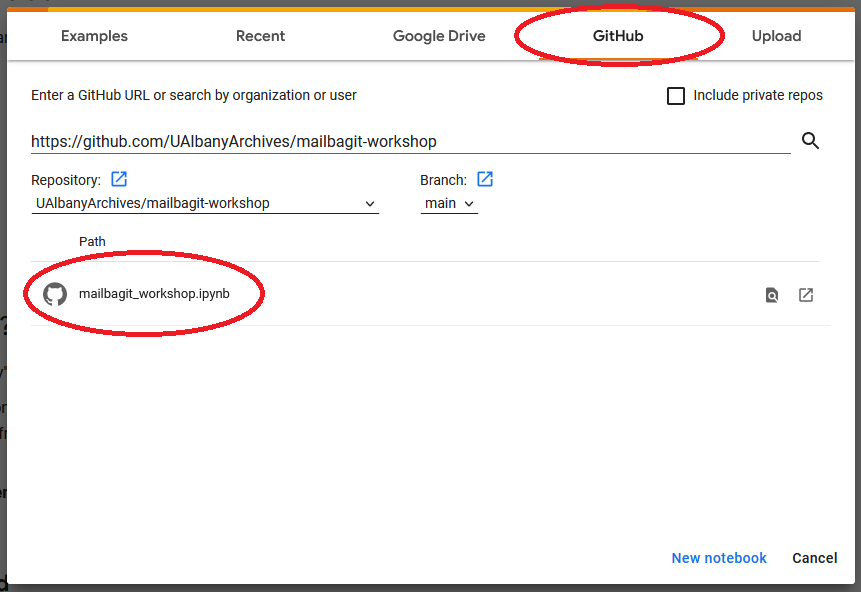
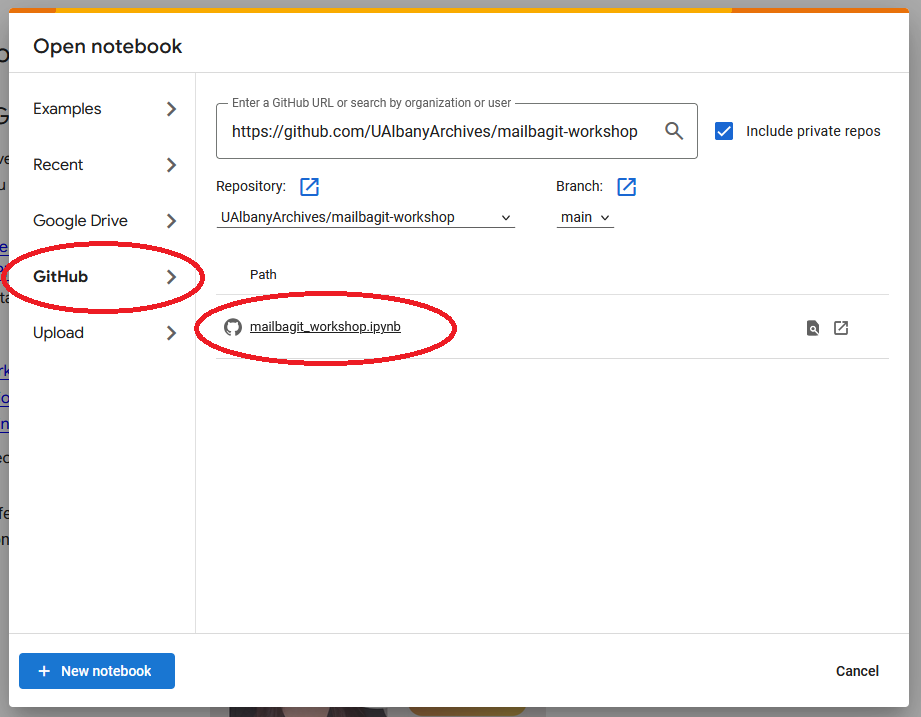
updated docs

Changed region(s): [[0.0, 0.0, 1.0, 1.0]]

diff --git a/docs/trying.md b/docs/trying.md
@@ -9,9 +9,11 @@ nav_order: 2
 
 You can try out mailbagit step-by-step using a Jupyter Notebook in Google Colab.
 
+![Screenshot of selecting mailbagit_workshop.ipynb in Google Colab]({{ site.baseurl }}/img/mailbag-colab-notebook.png)
+
 1. Go to [colab.research.google.com](https://colab.research.google.com)
 2. Load from Github tab
 3. Enter the Github URL: https://github.com/UAlbanyArchives/mailbagit-workshop
 4. Select the "mailbagit_workshop.ipynb" notebook
 
-![Screenshot of selecting mailbagit_workshop.ipynb in Google Colab]({{ site.baseurl }}/img/mailbag-colab-notebook.png)
+![Screenshot notebook running in Google Colab]({{ site.baseurl }}/img/mailbag-colab-notebook2.png)
